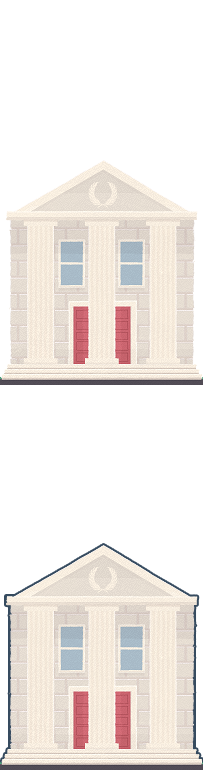
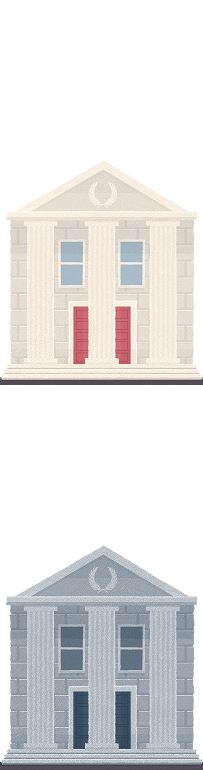
Updated school building and hover effects

Changed region(s): [[0.0, 0.6857, 1.0, 0.9974]]

diff --git a/app/stylesheets/non-modular/_info.sass b/app/stylesheets/non-modular/_info.sass
@@ -71,14 +71,17 @@
           float: none
           h3
             //margin-bottom: 31px !important
-            top: 65px !important
-            right: -16px !important
+            top: 25px !important
+            right: -17px !important
           background: url("shared/redesign/building-right.png") no-repeat 0px 0px
           overflow: hidden
           &:hover
             background: url("shared/redesign/building-right.png") no-repeat 0px -385px
             h3
-              top: 63px !important
+              top: 23px !important
+              background-color: $red
+              &:after
+                border-top-color: $red
             //a
               background-color: #b07bd9
             //&:after
@@ -89,7 +92,8 @@
         .for-students
           h3
             //margin-bottom: 31px !important
-            top: 105px !important
+            left: 2px !important
+            top: 110px !important
             //a
               background-color: #2d87b5
             //&:after
@@ -99,7 +103,10 @@
           &:hover
             background: url("shared/redesign/building-center.png") no-repeat 0px -385px
             h3
-              top: 103px !important
+              top: 108px !important
+              background-color: $red
+              &:after
+                border-top-color: $red
           //img
             height: 310px
             width: 185px
@@ -118,6 +125,9 @@
             background: url("shared/redesign/building-left.png") no-repeat 0px -385px
             h3
               top: 0px !important
+              background-color: $red
+              &:after
+                border-top-color: $red
         .for-neighbors, .for-students, .for-parents
           float: left
           width: 203px
@@ -348,7 +358,7 @@ p.learn-more
       margin-top: 40px
   .parents
     h2
-      margin-top: 50px
+      margin-top: 35px
   .students, .about-us
     h2
       margin-top: -5px
